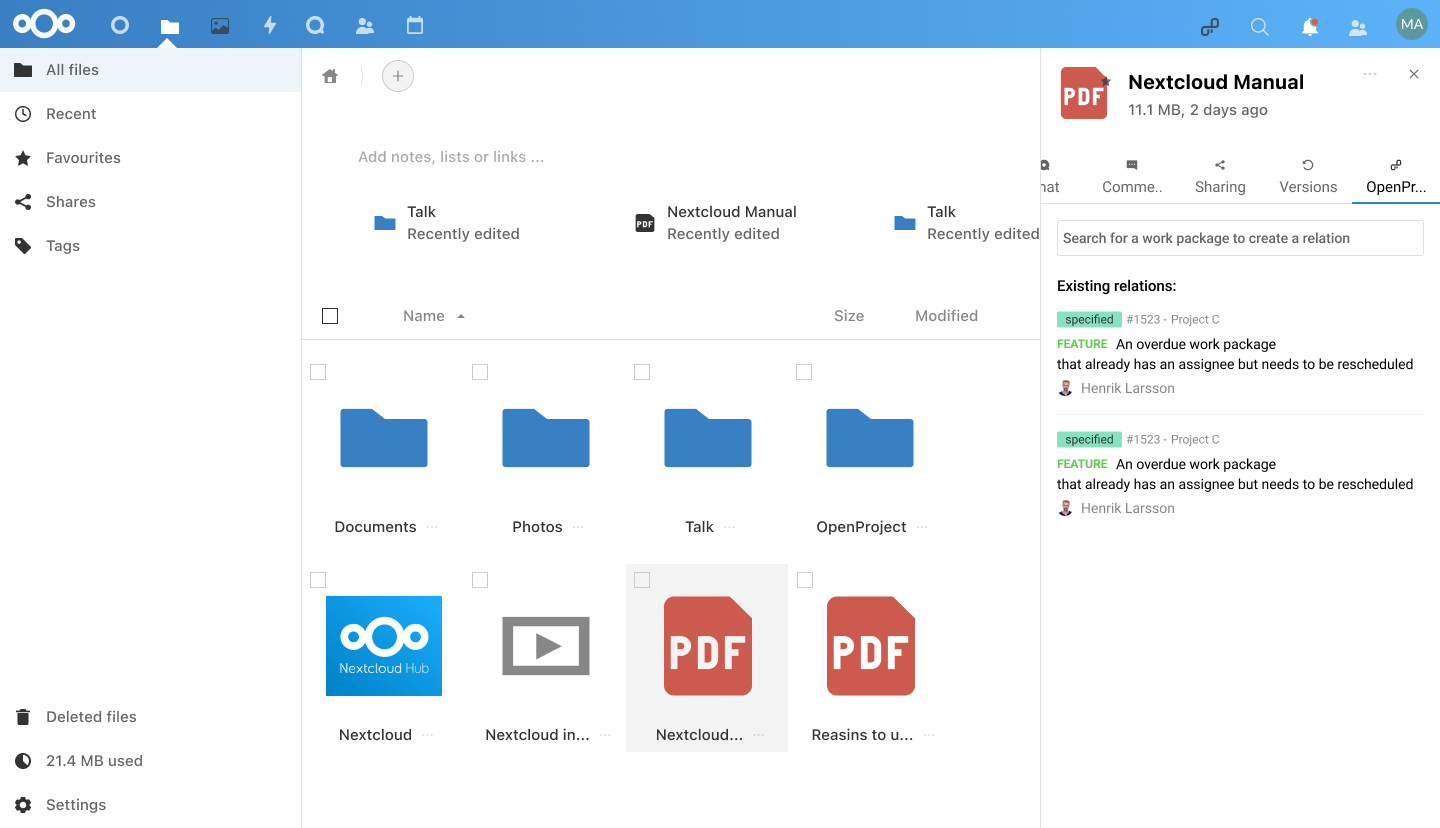
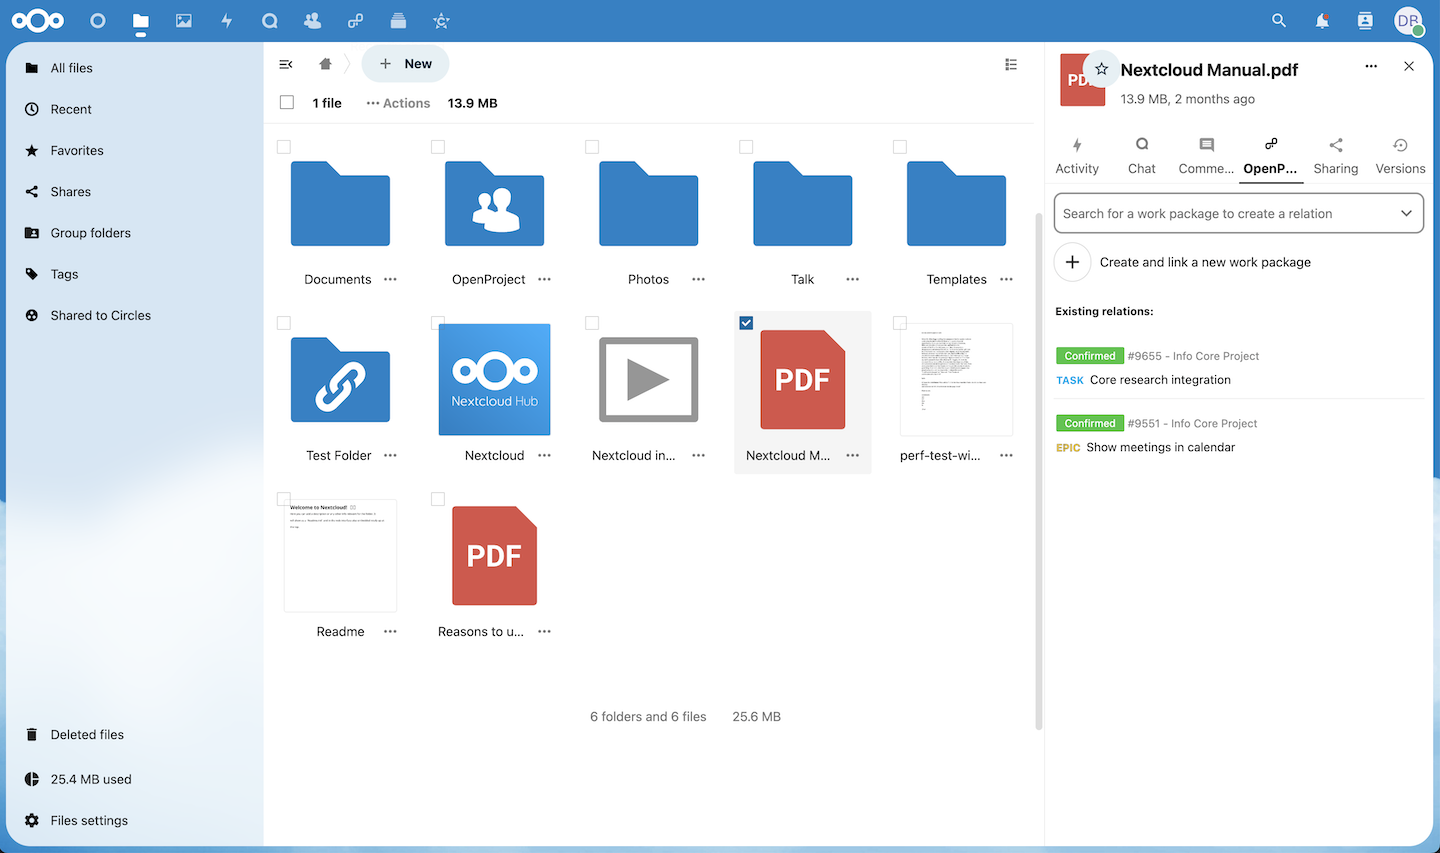
[#51662] Update Nextcloud integration description in NC app store
https://community.openproject.org/work_packages/51662

diff --git a/README.md b/README.md
@@ -6,6 +6,7 @@ On the Nextcloud end, it allows users to:
 
 * Link files and folders with work packages in OpenProject
 * Find all work packages linked to a file or a folder
+* Create work packages directly in Nextcloud
 * View OpenProject notifications via the dashboard
 * Search for work packages using Nextcloud's search bar
 * Link work packages in rich text fields via Smart Picker
